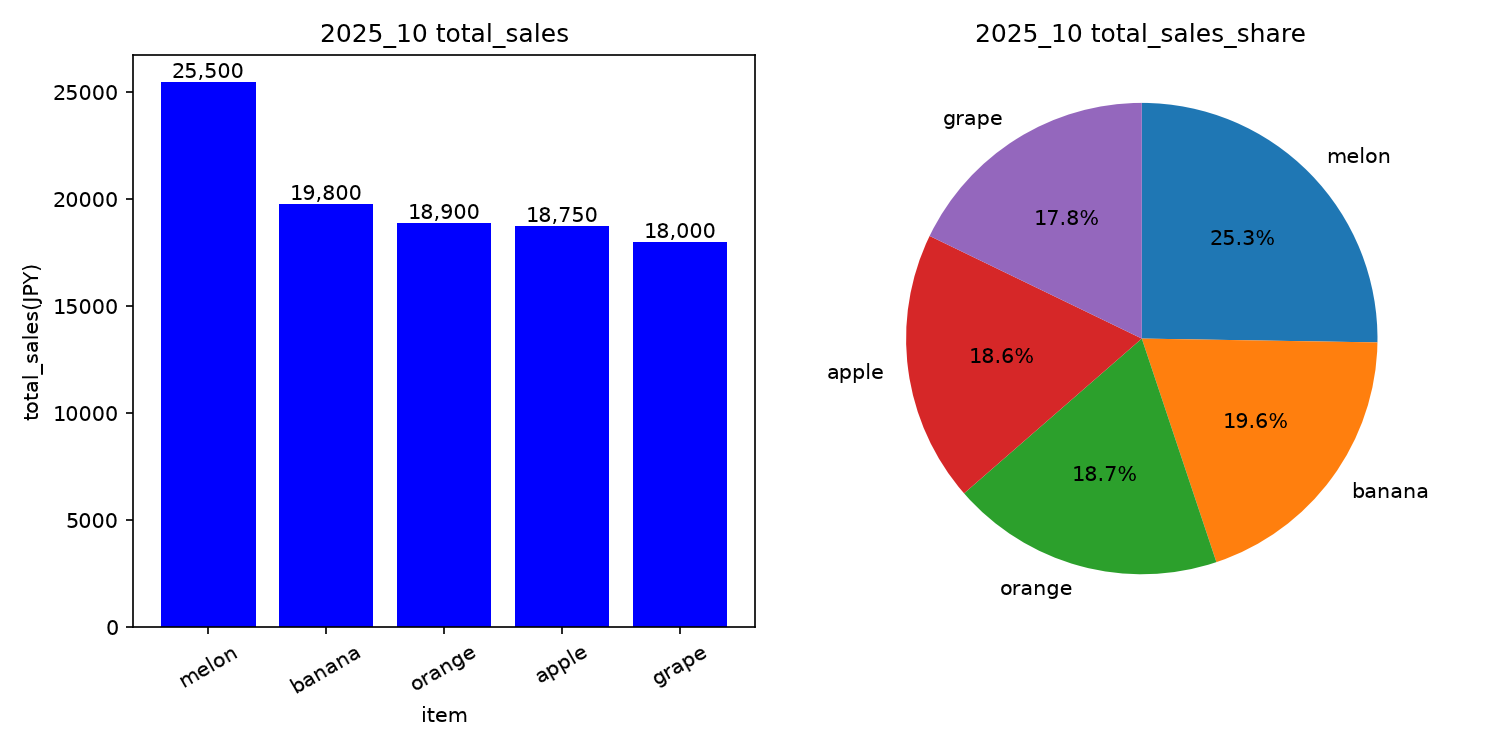
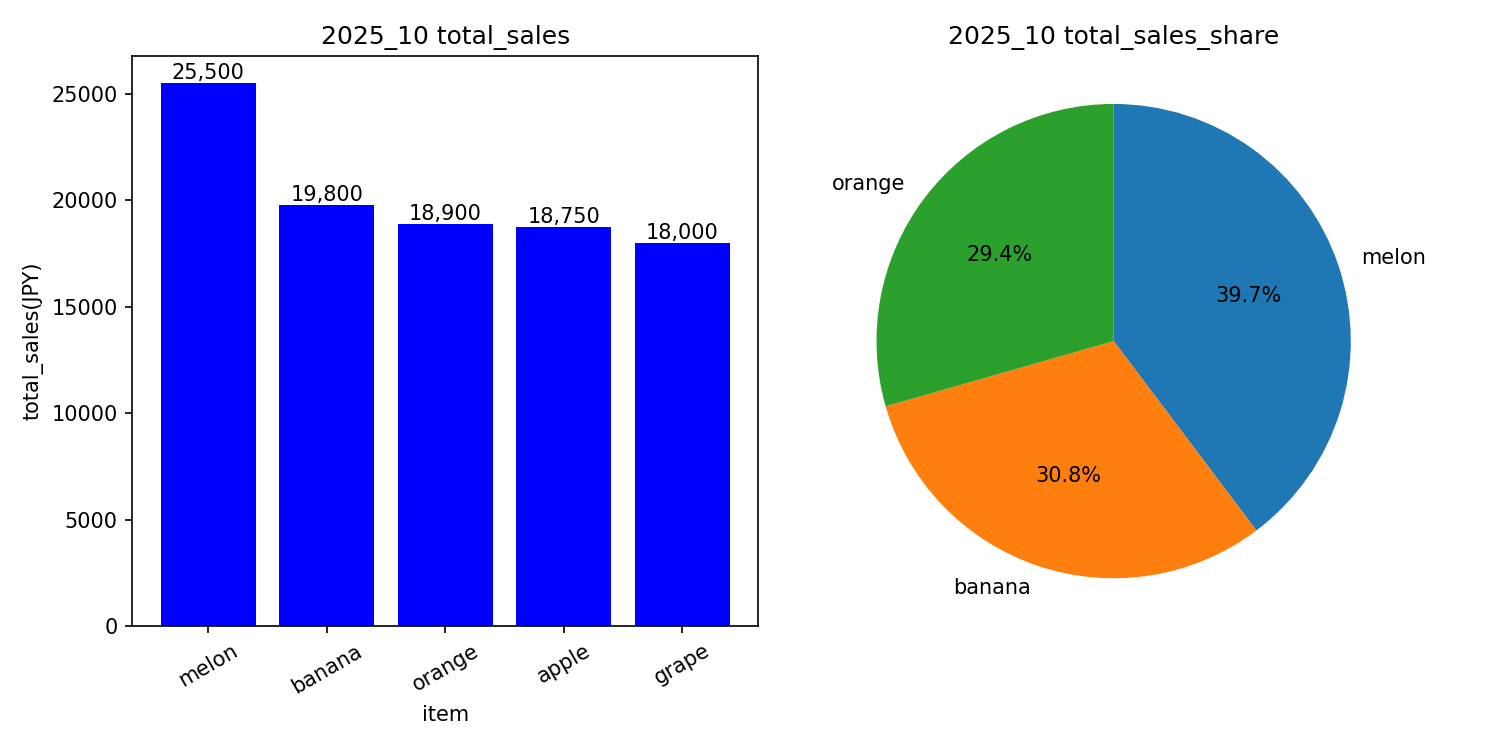
シェアCSV,Xlsxに出力次回、Day12

diff --git a/basic_pandas_matplotlib/day11_2.py b/basic_pandas_matplotlib/day11_2.py
@@ -17,7 +17,7 @@ out_root.mkdir(parents=True, exist_ok=True)
 
 # 2:トータル売り上げと平均価格、棒グラフ用データなどのデータ作成
 
-summary_row = []
+summary_rows = []
 
 for csv_path in csv_files:
     data_label              = csv_path.stem.replace("data_", "")
@@ -38,12 +38,15 @@ for csv_path in csv_files:
     # 数値の安全化
     df["price"] = pd.to_numeric(df["price"], errors="coerce").fillna(0)
     df["count"] = pd.to_numeric(df["count"], errors="coerce").fillna(0).astype(int)
-    df["total"]           	= df["price"] * df["count"]
+    df["total"] = df["price"] * df["count"]
      
     # 合計売上と単価の加重平均金額
     total_sales			    = int(df["total"].sum())
     total_count             = int(round(df["count"].sum()))
-    avg_price_weighted   		= int(round(total_sales / total_count if total_count > 0 else 0))
+    avg_price_weighted      = int(round(total_sales / total_count if total_count > 0 else 0))
+    
+    # csv用に商品構成を入力
+    df["share_percent"] = (df["total"] / total_sales * 100).round(2) if total_sales > 0 else 0
     
     if len(df) and total_sales > 0:
         top_idx                 = df["total"].idxmax()
@@ -77,6 +80,9 @@ for csv_path in csv_files:
     plot_df        = df.sort_values("total",ascending=False).reset_index(drop=True)
     graph_labels   = plot_df["item"]
     graph_total    = plot_df["total"]
+    TOP_N          = 3
+    top_total_df   = plot_df["total"].head(TOP_N)
+    top_item_df    = plot_df["item"].head(TOP_N)
     
     # 棒グラフの作成
     bars = axes[0].bar(
@@ -103,8 +109,8 @@ for csv_path in csv_files:
     # 円グラフ作成
     if total_sales > 0:
         axes[1].pie(
-            graph_total,
-            labels=graph_labels,
+            top_total_df,
+            labels=top_item_df,
             startangle=90,
             autopct="%1.1f%%",
             counterclock=False
@@ -124,6 +130,22 @@ for csv_path in csv_files:
     (out_dir/ f"comment_{data_label}.txt").write_text(ai_comment, encoding="utf-8")
     
     monthly_table = pd.concat([df, summary_tail], ignore_index=False)
-    with pd.ExcelWriter(out_dir / f"average_price_wighted_{data_label}.xlsx") as writer:
+    with pd.ExcelWriter(out_dir / f"average_price_weighted_{data_label}.xlsx") as writer:
         monthly_table.to_excel(writer, index=False)
+    
+    summary_rows.append({
+        "monthly": data_label,
+        "total_sales" : total_sales,
+        "average_price" : avg_price_weighted,
+        "top_item" : top_sales_item_name,
+        "top_share_percent" : top_share_item_rate
+    })
     print(ai_comment)
+
+# 月の比較表の出力
+summary_df = pd.DataFrame(summary_rows)
+summary_df = summary_df.sort_values("monthly").reset_index(drop=True)
+summary_df["mom_percent"] = (
+    summary_df["total_sales"].pct_change().mul(100).round(1)
+    )
+summary_df.to_csv(out_root / "summary_all_month.csv", index=False, encoding="utf-8-sig")
